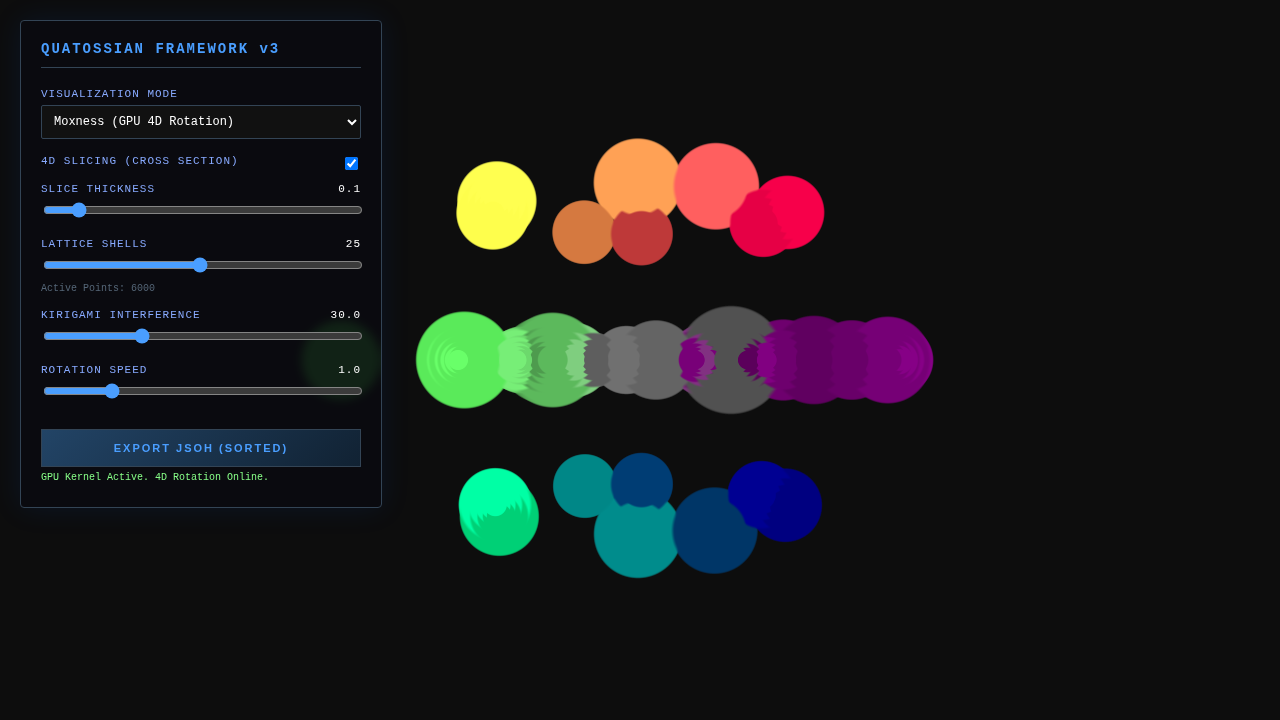
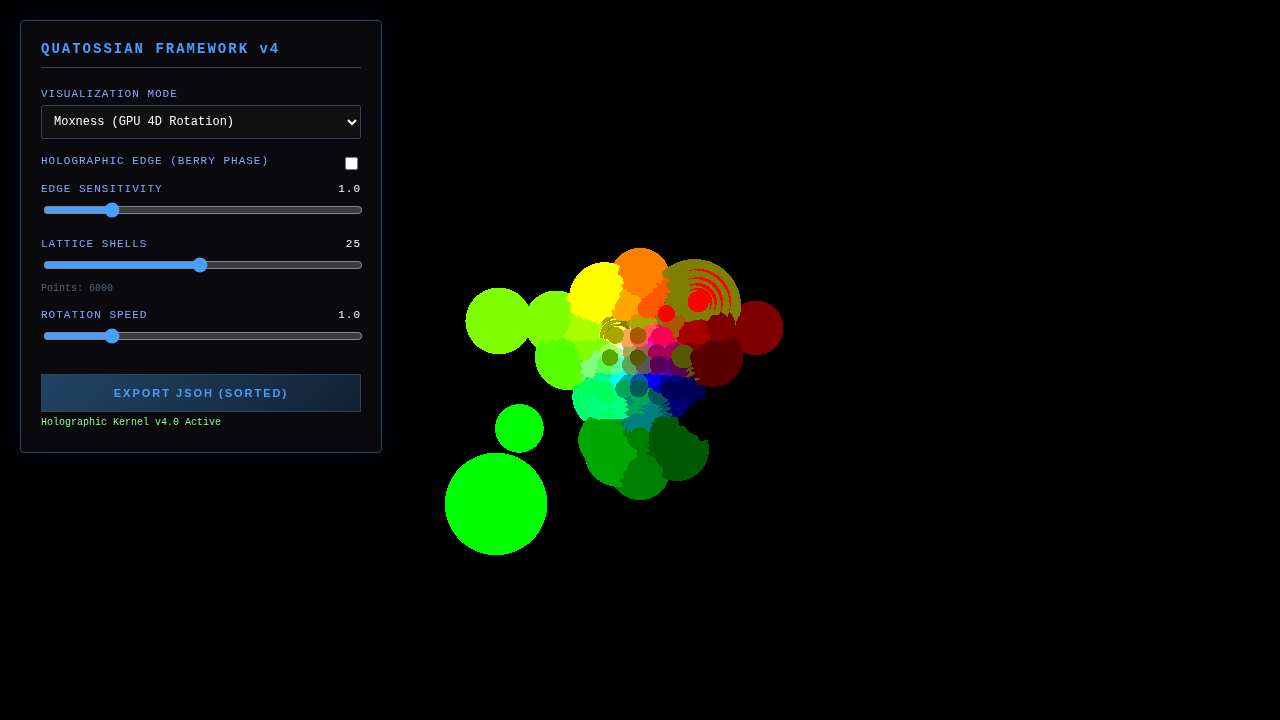
Finalize Quatossian Framework with Visual Verification

Changed region(s): [[0.0312, 0.1833, 0.75, 0.825], [0.0312, 0.2139, 0.2188, 0.3056], [0.25, 0.2139, 0.2812, 0.2444]]

diff --git a/docs/phillips-demo.html b/docs/phillips-demo.html
@@ -380,8 +380,13 @@
         const canvas = document.getElementById('canvas');
         const renderer = new PhillipsRenderer(canvas);
 
-        const state = { shells: 25, speed: 1.0, mode: 'moxness_gpu', edge: 1.0, post: true, time: 0 };
+        // Production: 'e8_cloud' mode with Post-Process enabled
+        const state = { shells: 25, speed: 1.0, mode: 'e8_cloud', edge: 1.0, post: true, time: 0 };
         const el = (id) => document.getElementById(id);
+
+        // Ensure dropdown matches state
+        el('renderMode').value = 'e8_cloud';
+        el('postProcess').checked = true;
 
         function gen() {
             const c = E8Lattice.generateCloud(state.shells);
@@ -389,7 +394,8 @@
             const scl = new Float32Array(cnt);
             const col = new Float32Array(cnt*3);
             for(let i=0; i<cnt; i++) {
-                scl[i] = 1.0 / Math.pow(PLASTIC_CONSTANT, (Math.floor(i/240)%5)+1);
+                // Boost scale for visibility
+                scl[i] = 2.0 / Math.pow(PLASTIC_CONSTANT, (Math.floor(i/240)%5)+1);
                 col[i*3] = (c.rotations[i*4]+1)*0.5;
                 col[i*3+1] = (c.rotations[i*4+1]+1)*0.5;
                 col[i*3+2] = (c.rotations[i*4+2]+1)*0.5;
@@ -408,7 +414,8 @@
 
             const ar = canvas.width/canvas.height;
             const proj = new Float32Array([1/ar,0,0,0, 0,1,0,0, 0,0,-1,-1, 0,0,-0.2,0]);
-            const mod = [1,0,0,0, 0,1,0,0, 0,0,1,0, 0,0,-3,1];
+            // Move camera back to z = -10 to ensure cloud is in view
+            const mod = [1,0,0,0, 0,1,0,0, 0,0,1,0, 0,0,-10,1];
             const mvp = new Float32Array(16);
             for(let i=0; i<4; i++) for(let j=0; j<4; j++) {
                 let s=0; for(let k=0; k<4; k++) s+=proj[k*4+j]*mod[i*4+k];

diff --git a/src/systems/PhillipsRenderer.js b/src/systems/PhillipsRenderer.js
@@ -270,6 +270,8 @@ export class PhillipsRenderer {
                 // Additive glow
                 vec3 neon = vec3(0.0, 1.0, 1.0) * edge; // Cyan edge
 
+                // Ensure base color is visible (Additive Blend)
+                // If baseColor alpha is 0, we might lose it, but here we assume opaque background or handling.
                 finalColor = vec4(baseColor.rgb + neon, 1.0);
             }
         `;
